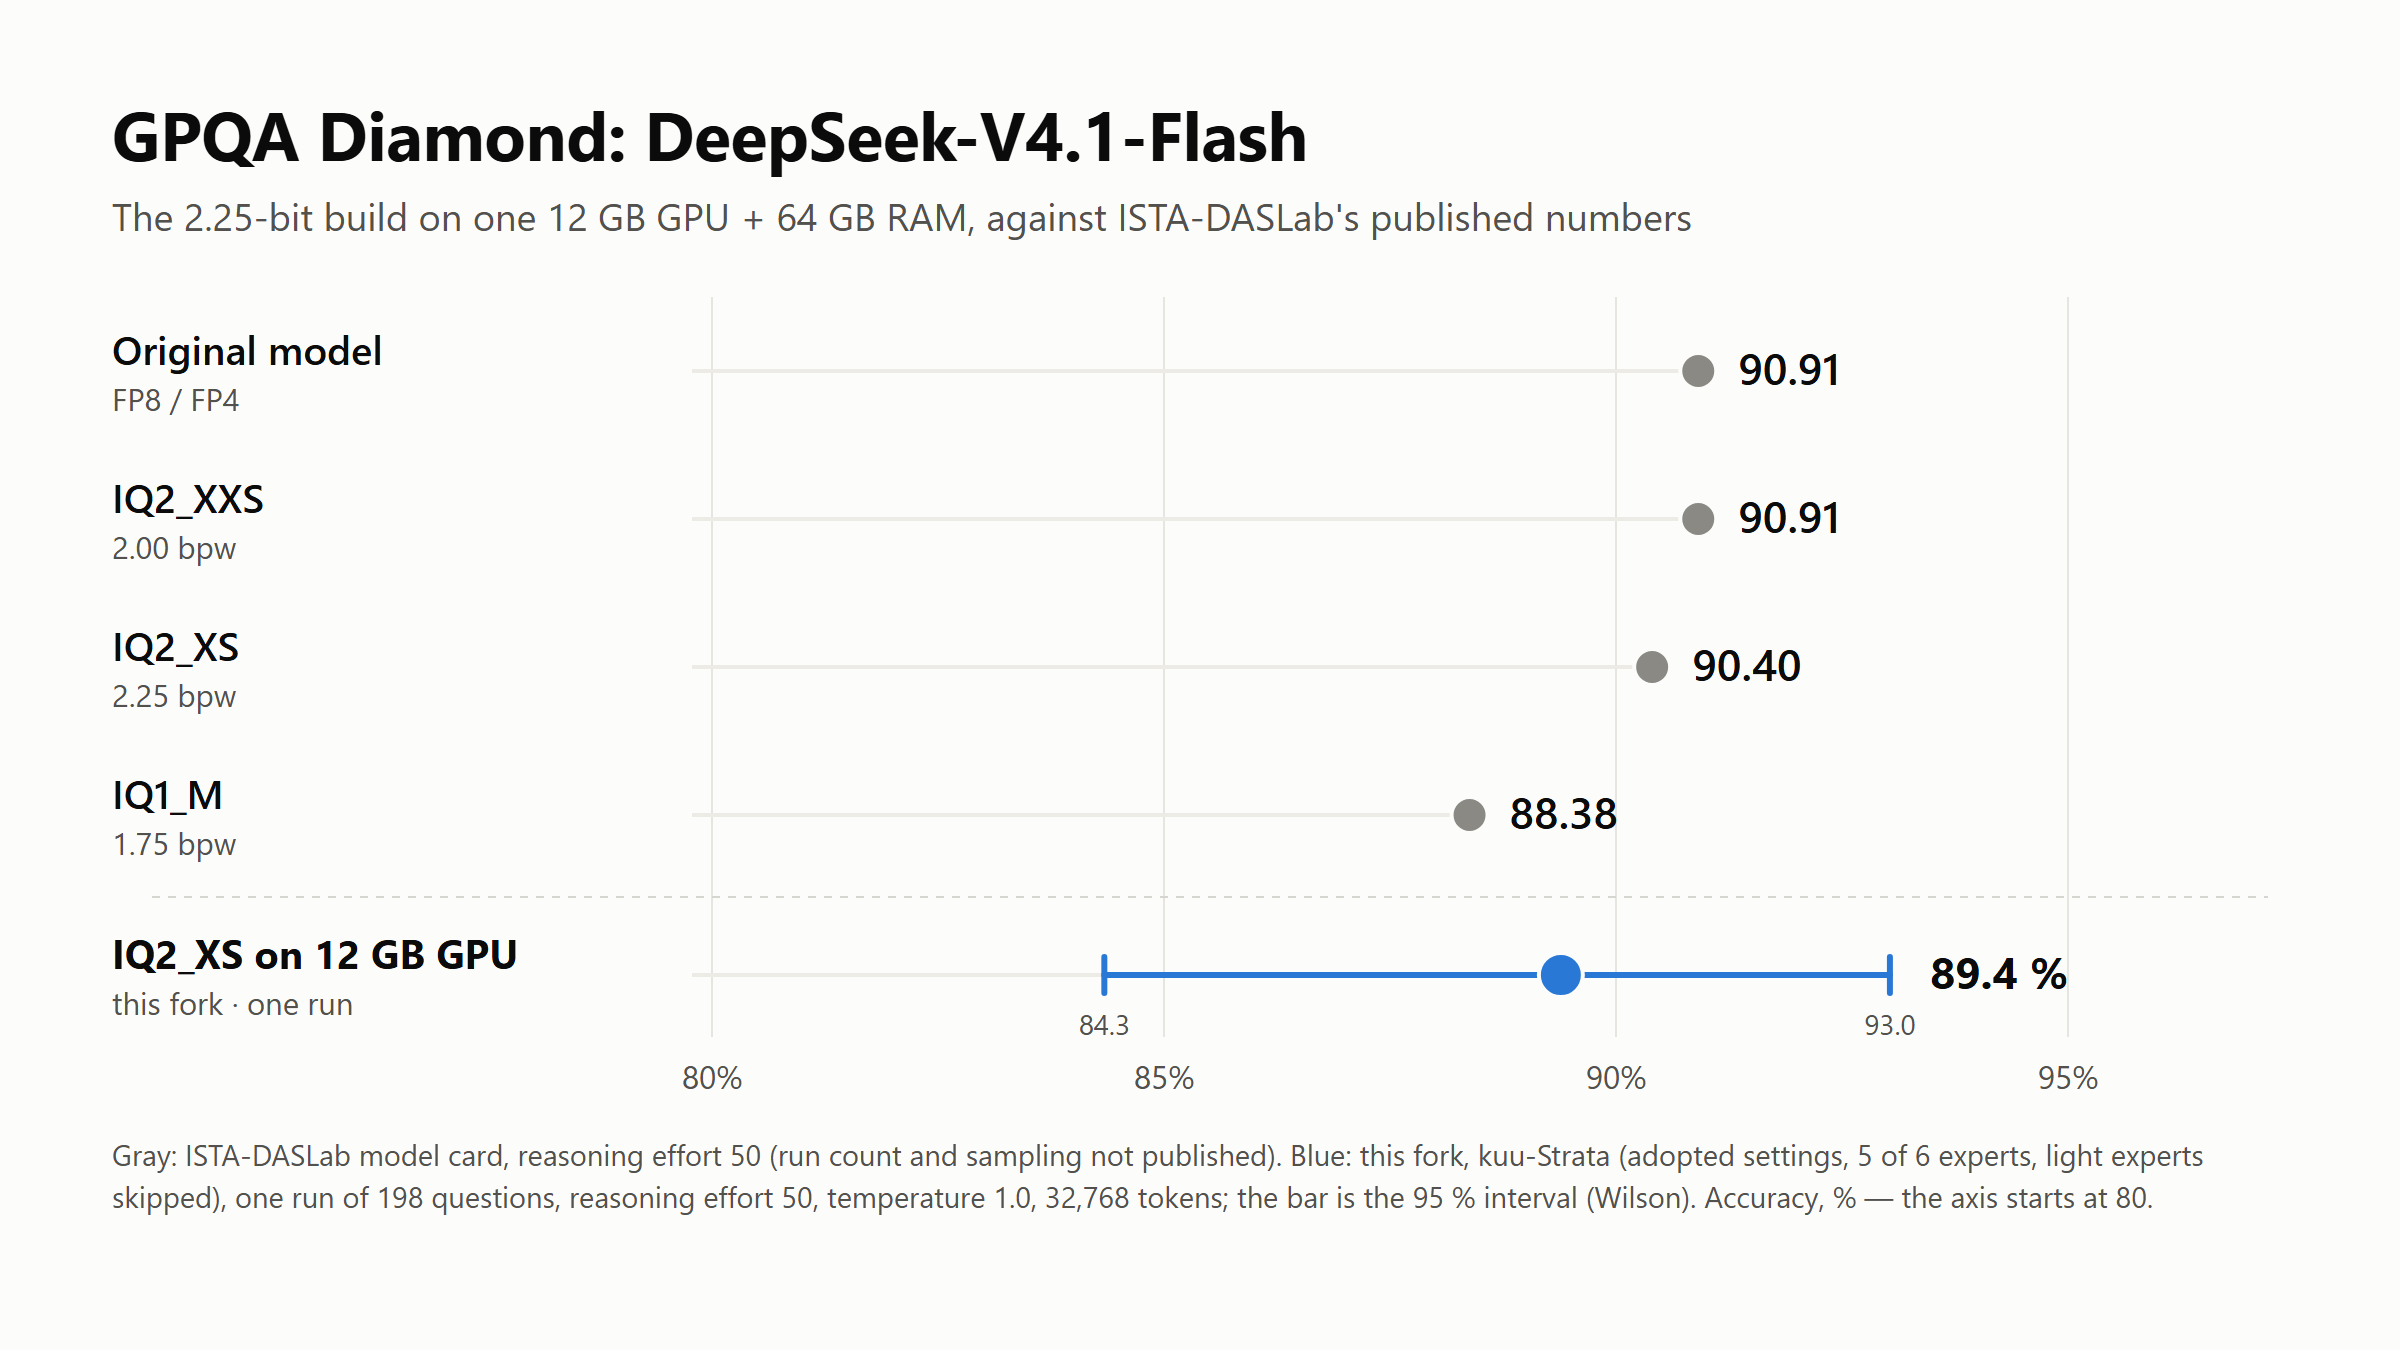
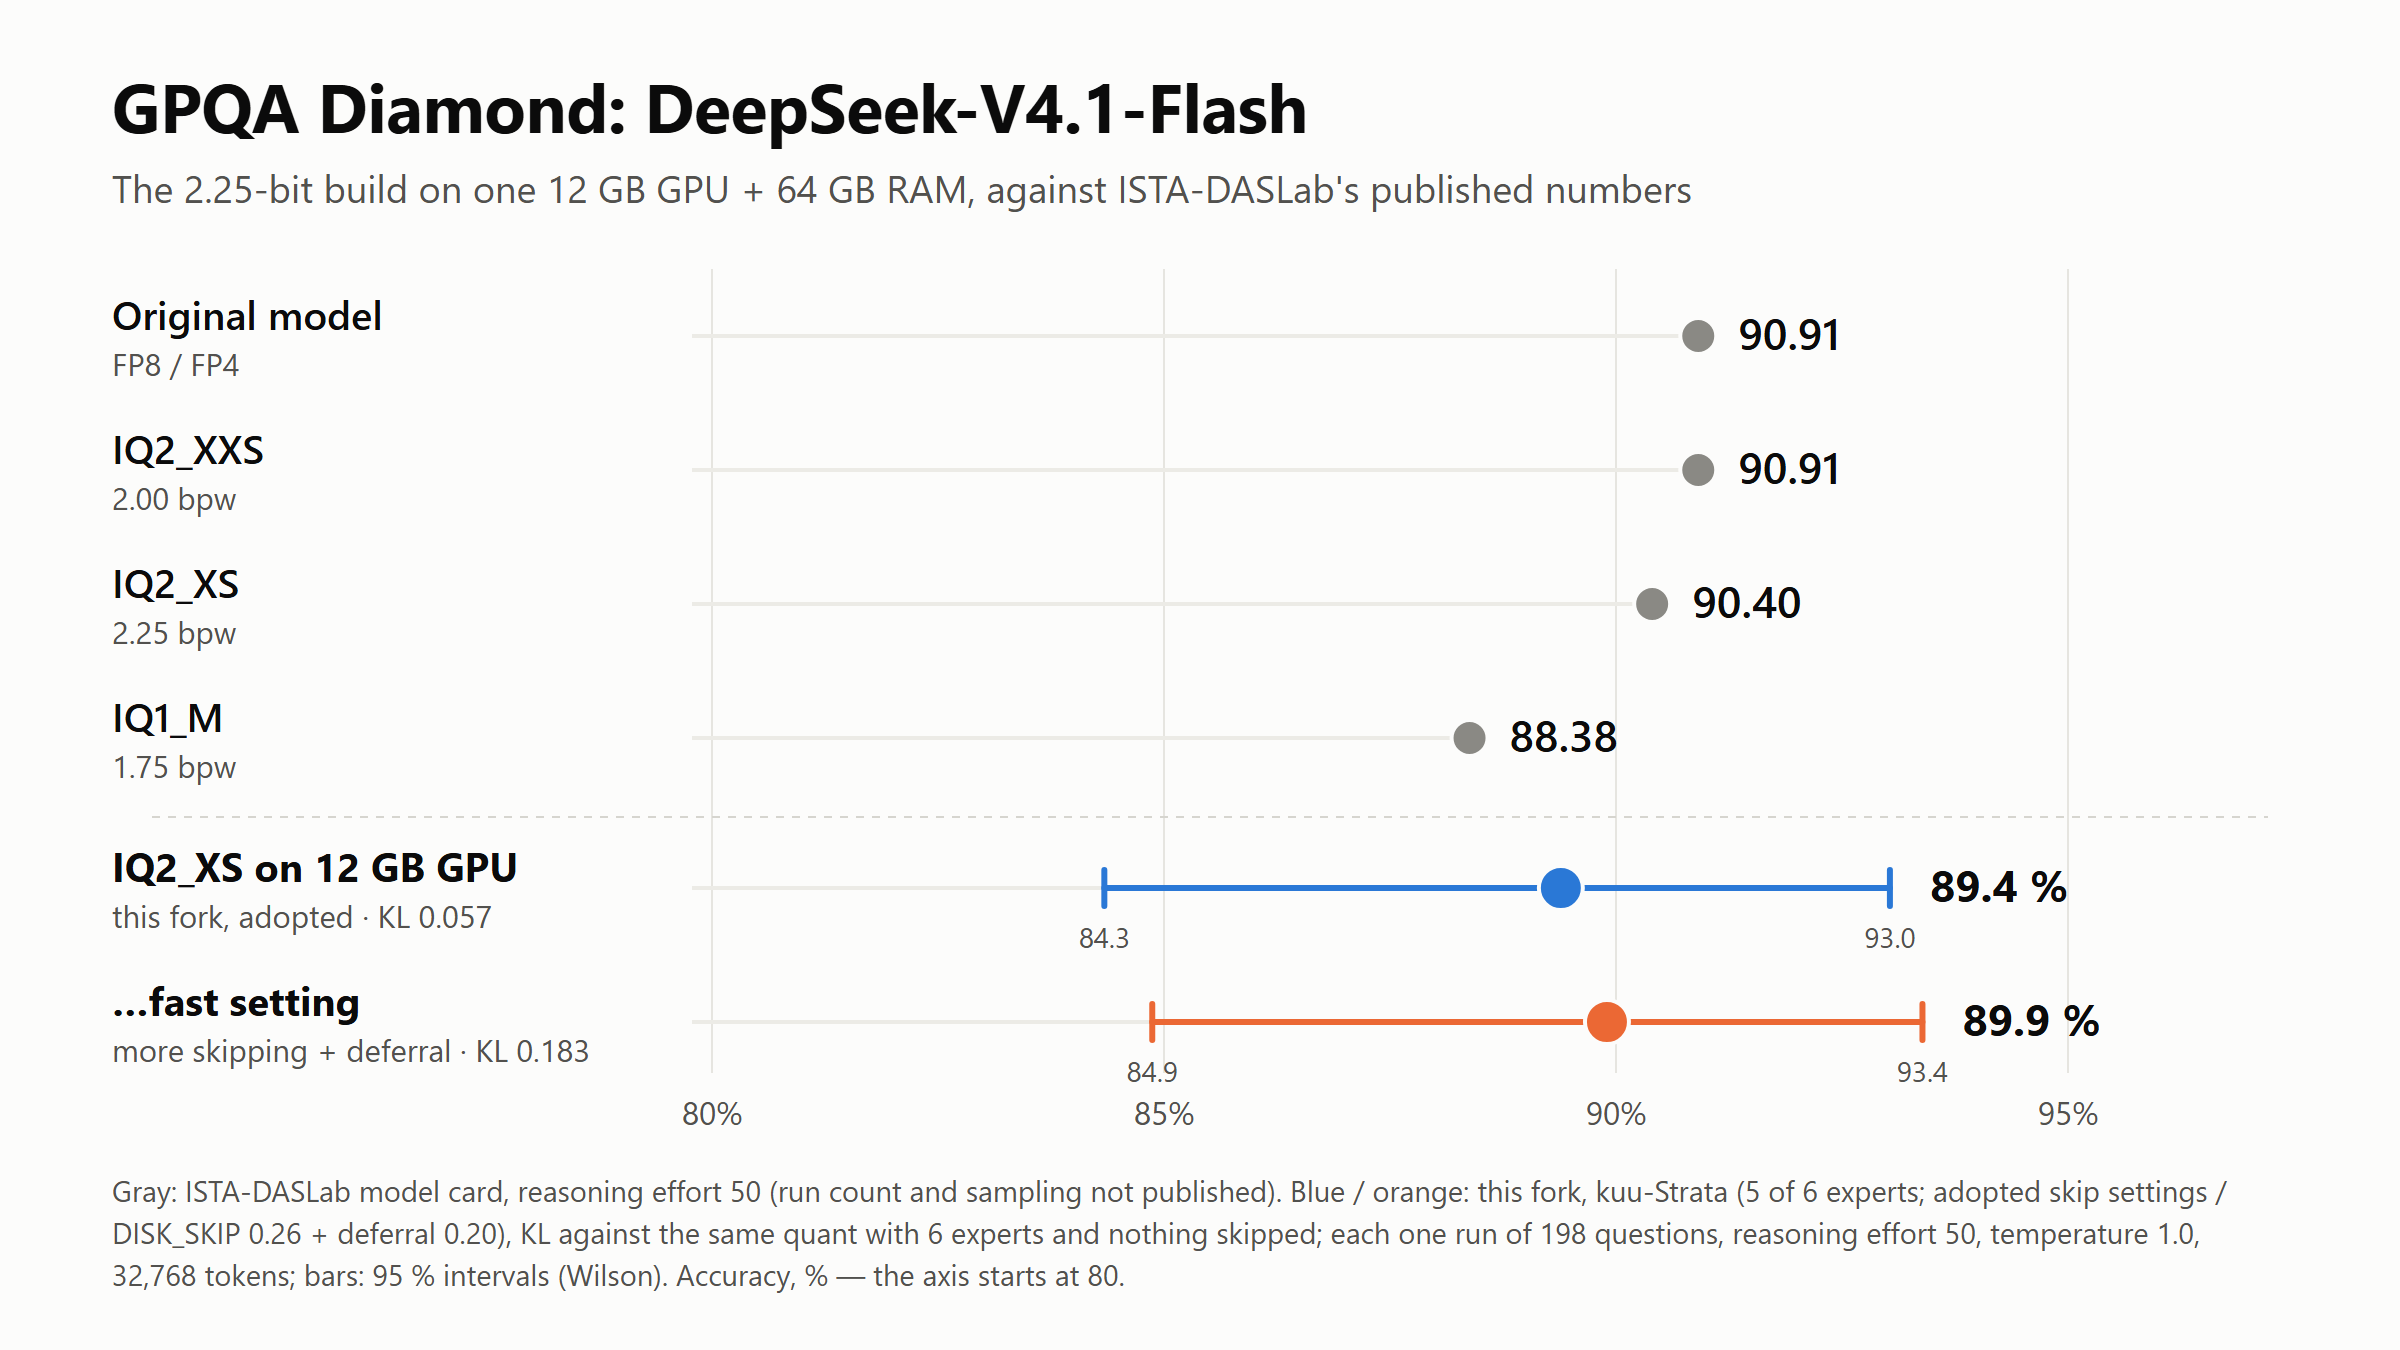
fork: GPQA Diamond on an aggressive skip + deferral setting (89.9 %, same as adopted); chart and its HTML sources

diff --git a/docs/img/src/kuu-strata-summary.html b/docs/img/src/kuu-strata-summary.html
@@ -1,0 +1,75 @@
+<!doctype html>
+<html><head><meta charset="utf-8"><title>kuu-Strata summary</title>
+<style>
+:root{--surface:#fcfcfb;--ink:#0b0b0b;--ink2:#52514e;--grid:#e6e5e0;--fork:#2a78d6;--ref:#8a8984;--tile:#f3f2ee}
+html,body{margin:0;background:var(--surface)}
+body{width:1200px;height:675px;font-family:"Segoe UI",system-ui,sans-serif;color:var(--ink);box-sizing:border-box;padding:36px 52px 26px;display:flex;flex-direction:column}
+h1{font-size:32px;margin:0 0 4px;font-weight:650}
+.sub{font-size:17.5px;color:var(--ink2);margin:0 0 20px}
+h2{font-size:17px;margin:0 0 8px;font-weight:650}
+.mem{margin-bottom:22px}
+.bar{display:flex;height:34px;gap:2px}
+.bar div{border-radius:4px;display:flex;align-items:center;padding-left:10px;font-size:14.5px;font-weight:600;color:#fff;white-space:nowrap;overflow:hidden}
+.memlab{display:flex;justify-content:space-between;font-size:14.5px;color:var(--ink2);margin-top:6px}
+.row{display:flex;gap:34px;flex:1}
+.panel{flex:1}
+.tiles{width:250px;display:flex;flex-direction:column;gap:10px}
+.tile{background:var(--tile);border-radius:8px;padding:10px 14px}
+.tile b{display:block;font-size:27px;font-weight:700;line-height:1.15}
+.tile span{font-size:14px;color:var(--ink2)}
+.key{display:flex;gap:18px;font-size:14.5px;color:var(--ink2);margin-bottom:6px}
+.key i{display:inline-block;width:12px;height:12px;border-radius:3px;margin-right:6px;vertical-align:-1px}
+.foot{font-size:13px;color:var(--ink2);line-height:1.4;margin-top:8px}
+svg text{font-family:"Segoe UI",system-ui,sans-serif}
+</style></head><body>
+<h1>DeepSeek-V4.1-Flash on a mid-range gaming PC</h1>
+<p class="sub">RTX 5070 12 GB · 64 GB DDR5 · one PCIe 4.0 NVMe · Windows 11 — kuu-Strata, an unofficial fork of Strata 0.2.12</p>
+
+<div class="mem">
+ <h2>Where the 266 GB model lives (ISTA-DASLab IQ2_XS, 2.25 bpw, drawn to scale)</h2>
+ <div class="bar">
+  <div style="flex:12;background:#1c5cab" title="GPU 12 GB">GPU</div>
+  <div style="flex:36;background:#2a78d6">RAM cache 36 GB</div>
+  <div style="flex:218;background:#d9d8d2;color:#0b0b0b">the rest is read from the NVMe SSD as tokens need it</div>
+ </div>
+ <div class="memlab"><span>▲ GPU: 12 GB of VRAM, all in use (200 MiB kept free)</span><span>GPU + RAM cache hold under a fifth of the model</span></div>
+</div>
+
+<div class="row">
+ <div class="panel"><h2>Generation, tok/s</h2>
+  <div class="key"><span><i style="background:#8a8984"></i>upstream as installed (0.2.7)</span><span><i style="background:#2a78d6"></i>this fork</span></div>
+  <svg id="g" width="440" height="250"></svg></div>
+ <div class="panel"><h2>Prompt read, tok/s</h2>
+  <div class="key"><span>&nbsp;</span></div>
+  <svg id="p" width="360" height="250"></svg></div>
+ <div class="tiles">
+  <div class="tile"><b>89.4 %</b><span>GPQA Diamond, one run (ISTA's card: 90.40 for this quant, 90.91 original)</span></div>
+  <div class="tile"><b>~21 tok/s</b><span>mixed long jobs: prose, code, tool calls, translation, thinking</span></div>
+  <div class="tile"><b>0.057</b><span>KL against the same quant with 6 experts and nothing skipped</span></div>
+ </div>
+</div>
+<div class="foot">Same PC throughout. Upstream column: Strata 0.2.7 as installed on 10/29 (upstream's own doc gives about 4.7 tok/s for an RTX 5070 with 64 GB). DSpark drafter on, 5 of 6 experts, 128K context. Software changes only; numbers move 3–8 % between runs.</div>
+<script>
+const NS="http://www.w3.org/2000/svg";
+function chart(id,max,ticks,groups){
+ const svg=document.getElementById(id),W=+svg.getAttribute("width"),H=+svg.getAttribute("height"),L=0,R=86,T=4,B=26;
+ const X=v=>L+v/max*(W-L-R);
+ const el=(t,a,txt)=>{const e=document.createElementNS(NS,t);for(const k in a)e.setAttribute(k,a[k]);if(txt!=null)e.textContent=txt;svg.appendChild(e);return e;};
+ for(const t of ticks){el("line",{x1:X(t),x2:X(t),y1:T,y2:H-B,stroke:"#e6e5e0"});el("text",{x:X(t),y:H-6,"text-anchor":t?"middle":"start","font-size":13,fill:"#52514e"},t);}
+ const gh=(H-T-B)/groups.length;
+ groups.forEach((g,i)=>{const y0=T+gh*i;
+  el("text",{x:0,y:y0+18,"font-size":15,"font-weight":600,fill:"#0b0b0b"},g.l);
+  g.b.forEach((b,j)=>{const y=y0+28+j*26,v=b.v;
+   if(v==null){el("text",{x:2,y:y+15,"font-size":13.5,fill:"#52514e"},"not measured");return;}
+   el("rect",{x:X(0),y,width:Math.max(4,X(v)-X(0)),height:20,rx:4,fill:j?"#2a78d6":"#8a8984"});
+   el("text",{x:X(v)+8,y:y+15,"font-size":15,"font-weight":j?700:500,fill:"#0b0b0b"},b.t);});});
+}
+chart("g",30,[0,10,20,30],[
+ {l:"Code, temperature 0",b:[{v:4.75,t:"4.6–4.9"},{v:25.5,t:"24–27"}]},
+ {l:"Short replies (4 kinds)",b:[{v:6.7,t:"6.7"},{v:22.5,t:"22–23"}]},
+]);
+chart("p",600,[0,200,400,600],[
+ {l:"4.6K-token prompt",b:[{v:62,t:"56–68"},{v:158,t:"152–164"}]},
+ {l:"30K-token prompt",b:[{v:null},{v:517,t:"490–544"}]},
+]);
+</script></body></html>

diff --git a/docs/img/src/kuu-strata-gpqa.html b/docs/img/src/kuu-strata-gpqa.html
@@ -1,0 +1,47 @@
+<!doctype html>
+<html><head><meta charset="utf-8"><title>GPQA Diamond</title>
+<style>
+:root{--surface:#fcfcfb;--ink:#0b0b0b;--ink2:#52514e;--muted:#8a8984;--grid:#e6e5e0;--fork:#2a78d6;--ref:#8a8984}
+html,body{margin:0;background:var(--surface)}
+body{width:1200px;height:675px;font-family:"Segoe UI",system-ui,sans-serif;color:var(--ink);box-sizing:border-box;padding:30px 56px 22px}
+h1{font-size:34px;margin:0 0 6px;font-weight:650;letter-spacing:-.2px}
+.sub{font-size:19px;color:var(--ink2);margin:0 0 18px}
+svg text{font-family:"Segoe UI",system-ui,sans-serif}
+.foot{font-size:14.5px;color:var(--ink2);line-height:1.45;margin-top:4px}
+</style></head><body>
+<h1>GPQA Diamond: DeepSeek-V4.1-Flash</h1>
+<p class="sub">The 2.25-bit build on one 12 GB GPU + 64 GB RAM, against ISTA-DASLab's published numbers</p>
+<svg id="c" width="1088" height="452"></svg>
+<div class="foot">Gray: ISTA-DASLab model card, reasoning effort 50 (run count and sampling not published). Blue / orange: this fork, kuu-Strata (5 of 6 experts; adopted skip settings / DISK_SKIP 0.26 + deferral 0.20), KL against the same quant with 6 experts and nothing skipped;
+each one run of 198 questions, reasoning effort 50, temperature 1.0, 32,768 tokens; bars: 95 % intervals (Wilson). Accuracy, % — the axis starts at 80.</div>
+<script>
+const rows=[
+ {l:"Original model",s:"FP8 / FP4",v:90.91,c:"ref"},
+ {l:"IQ2_XXS",s:"2.00 bpw",v:90.91,c:"ref"},
+ {l:"IQ2_XS",s:"2.25 bpw",v:90.40,c:"ref"},
+ {l:"IQ1_M",s:"1.75 bpw",v:88.38,c:"ref"},
+ {l:"IQ2_XS on 12 GB GPU",s:"this fork, adopted · KL 0.057",v:89.39,lo:84.34,hi:93.03,c:"fork",t:"89.4 %"},
+ {l:"…fast setting",s:"more skipping + deferral · KL 0.183",v:89.90,lo:84.87,hi:93.39,c:"fast",t:"89.9 %"},
+];
+const svg=document.getElementById("c"),NS="http://www.w3.org/2000/svg";
+const W=1088,H=452,L=300,R=110,T=10,B=40,x0=80,x1=95;
+const X=v=>L+(v-x0)/(x1-x0)*(W-L-R);
+const el=(t,a,txt)=>{const e=document.createElementNS(NS,t);for(const k in a)e.setAttribute(k,a[k]);if(txt!=null)e.textContent=txt;svg.appendChild(e);return e;};
+for(const t of [80,85,90,95]){el("line",{x1:X(t),x2:X(t),y1:T,y2:H-B,stroke:"#e6e5e0","stroke-width":1});
+ el("text",{x:X(t),y:H-B+26,"text-anchor":"middle","font-size":16,fill:"#52514e"},t+"%");}
+const rh=(H-T-B)/rows.length;
+rows.forEach((r,i)=>{
+ const mine=r.c!=="ref",y=T+rh*i+rh/2+(mine?8:0);
+ if(r.c==="fork") el("line",{x1:20,x2:W-10,y1:y-rh/2-2,y2:y-rh/2-2,stroke:"#d6d5cf","stroke-width":1,"stroke-dasharray":"4 4"});
+ el("text",{x:0,y:y-3,"font-size":20,"font-weight":mine?700:600,fill:"#0b0b0b"},r.l);
+ el("text",{x:0,y:y+20,"font-size":15.5,fill:"#52514e"},r.s);
+ const col=r.c==="fork"?"#2a78d6":r.c==="fast"?"#eb6834":"#8a8984";
+ el("line",{x1:L-10,x2:X(r.v),y1:y,y2:y,stroke:"#ecebe6","stroke-width":2});
+ if(r.lo){el("line",{x1:X(r.lo),x2:X(r.hi),y1:y,y2:y,stroke:col,"stroke-width":3,"stroke-linecap":"round"});
+  for(const v of [r.lo,r.hi]) el("line",{x1:X(v),x2:X(v),y1:y-9,y2:y+9,stroke:col,"stroke-width":3,"stroke-linecap":"round"});
+  el("text",{x:X(r.lo),y:y+30,"text-anchor":"middle","font-size":14,fill:"#52514e"},r.lo.toFixed(1));
+  el("text",{x:X(r.hi),y:y+30,"text-anchor":"middle","font-size":14,fill:"#52514e"},r.hi.toFixed(1));}
+ el("circle",{cx:X(r.v),cy:y,r:mine?11:9,fill:col,stroke:"#fcfcfb","stroke-width":2});
+ el("text",{x:(r.lo?X(r.hi):X(r.v))+20,y:y+7,"font-size":22,"font-weight":mine?700:600,fill:"#0b0b0b"},(r.t||r.v.toFixed(2)));
+});
+</script></body></html>

diff --git a/README.md b/README.md
@@ -49,6 +49,13 @@ Two other runs, for context: with the server's thinking budget left at 4,000 tok
 scored 83.8 %; re-asking only that run's 32 misses without the budget turned 17 into right answers (92.4 %, an upper
 bound, since re-asking only the misses also recovers the ones lost by chance).
 
+A much more aggressive setting scored the same: `STRATA_DS4_DISK_SKIP_W=0.26` with deferral (`STRATA_DS4_DEFER=3`,
+`STRATA_DS4_DEFER_W=0.20`), KL 0.183 against the reference (three times the adopted setting's), got **89.9 %** (178/198)
+under the same conditions, thinking at 26.7 tok/s instead of 21.8. Question by question, 169 were right in both runs, 8
+only in the adopted one, 9 only in this one: no difference beyond sampling noise. So multiple-choice reasoning survives
+far more skipping than KL suggests; exact copying, code and Japanese prose were not measured this way and may be more
+sensitive.
+
 ## What changed (all in `src/dsv41`, environment variables, off unless set)
 
 Adopted on the reference PC (the settings it runs with are at the end):
@@ -77,8 +84,10 @@ Measured and **not** adopted (kept, off by default, so the numbers can be reprod
 | `STRATA_DS4_DRAFT_RAM_W` / `_DRAFT_DISK_W` | higher skip thresholds on draft rows only | big quality loss |
 | others in `4d3b2d3a` | routing / budget variants F1, F2, E2, A2, A3 | none beat the plain rule |
 
-A faster, lower-quality setting that measured well: `STRATA_DS4_DISK_SKIP_W=0.24` gives +18 % on "wide" and about
-28–31 tok/s on code at temperature 0, at KL 0.114 (English suffers most). It is not the default.
+A faster setting that measured well: `STRATA_DS4_DISK_SKIP_W=0.24` gives +18 % on "wide" and about 28–31 tok/s on
+code at temperature 0, at KL 0.114 (English suffers most). Going further, `DISK_SKIP_W=0.26` with deferral 0.20 reaches
+about 35 tok/s on code at KL 0.183 and still scored 89.9 % on GPQA Diamond (above). Neither is the default: KL says they
+change the text more, and only multiple-choice reasoning has been checked.
 
 ## Getting DSpark drafts on a 12 GB card
 
